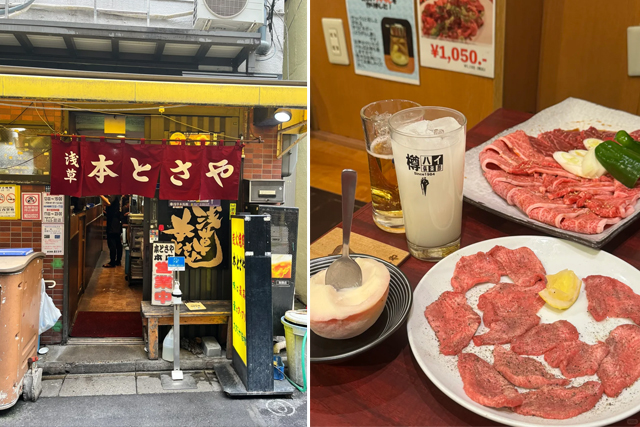
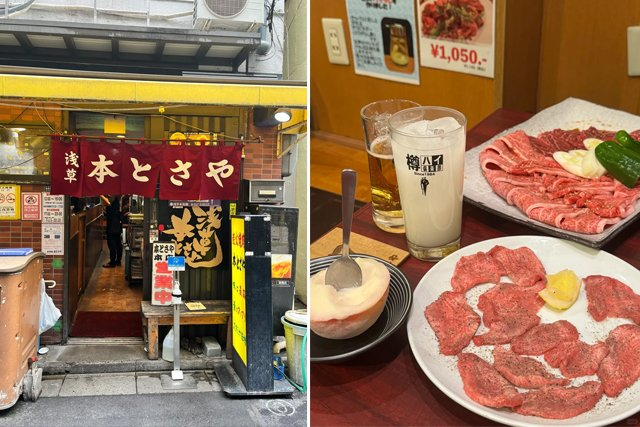
perf: compress images + fix LCP 22.6s
- logo.png: 930KB -> 27KB (97% reduction, resized 2048x2048 -> 200x200)
- Batch compress 18 PNG photos -> JPEG (quality=88)
- Resize all content images max 1200px width
- Update 8 code references from .png to .jpg
- Total image payload: ~11.6MB -> ~8.3MB (29% reduction)
- Fixes CF Web Analytics LCP P90: 22.6s -> expected <2.5s

diff --git a/src/content/blog/30-japanese-taboos-guide.md b/src/content/blog/30-japanese-taboos-guide.md
@@ -40,7 +40,7 @@ Turning down drinks from your boss is commonly viewed as disrespect in Japanese 
 
 Kimono dressing rule: right-over-left for living people. Left-over-right is only used for the deceased in funeral rituals. Wearing it wrong is considered extremely inauspicious — if you're renting a kimono, the staff will dress you correctly, but it's good to know.
 
-![Traditional Japanese kimono worn correctly with right-over-left fold in a serene temple garden](/images/taboos-kimono.png)
+![Traditional Japanese kimono worn correctly with right-over-left fold in a serene temple garden](/images/taboos-kimono.jpg)
 
 ### 4. Do Not Wear Your Bathroom Slippers Outside the Restroom
 
@@ -54,7 +54,7 @@ Japanese diners say _sumimasen_ (excuse me) to call for staff service. Loud shou
 
 The middle pathway of Shinto shrines is treated as the sacred road for deities. Tourists should walk along both-side lanes and avoid photographing the central aisle. This applies especially at major shrines like Fushimi Inari and Meiji Jingu.
 
-![Visitors walking respectfully along side paths at a Japanese shrine entrance with torii gate](/images/taboos-shrine.png)
+![Visitors walking respectfully along side paths at a Japanese shrine entrance with torii gate](/images/taboos-shrine.jpg)
 
 ### 7. Avoid Answering Phone Calls While Taking a Bath
 
@@ -80,7 +80,7 @@ This phrase carries the heavy implication of permanent separation. For daily far
 
 Tattoos were historically linked to gang culture in Japan. Most standard public onsen strictly reject guests with visible tattoos. However, the landscape is slowly changing.
 
-![Peaceful outdoor Japanese onsen with steam rising from a natural stone bath surrounded by autumn leaves](/images/taboos-onsen.png)
+![Peaceful outdoor Japanese onsen with steam rising from a natural stone bath surrounded by autumn leaves](/images/taboos-onsen.jpg)
 
 > **Travel Tip:** If you have tattoos and plan to experience Japanese hot springs, I have curated a list of tattoo-friendly onsen and private hot spring accommodations. You can easily [book private onsen rooms](#aff:klook_tattoo_onsen) without worrying about local restrictions.
 
@@ -116,7 +116,7 @@ Loud slurping tells chefs you love the noodle dish — it's a compliment, not ru
 
 Vertical chopsticks inside rice bowls replicate funeral offerings for the dead (_hotoke-bashi_), and it is an ominous gesture. Always rest chopsticks on the provided chopstick rest (_hashioki_) or horizontally across the bowl.
 
-![Chopsticks resting correctly on a hashioki beside a bowl of ramen in a warm Japanese restaurant setting](/images/taboos-dining.png)
+![Chopsticks resting correctly on a hashioki beside a bowl of ramen in a warm Japanese restaurant setting](/images/taboos-dining.jpg)
 
 ### 19. Do Not Transfer Food Directly Between Pairs of Chopsticks
 
@@ -136,7 +136,7 @@ Dirty outdoor shoes indoors are extremely impolite. This rule strictly applies t
 
 If your mobile rings on public transit, briefly explain you are aboard a train and hang up straight away. Keeping quiet on public transport is basic Japanese etiquette — most passengers switch their phones to silent mode (_manner mode_).
 
-![Clean, quiet Japanese train interior with passengers observing silent etiquette](/images/taboos-train.png)
+![Clean, quiet Japanese train interior with passengers observing silent etiquette](/images/taboos-train.jpg)
 
 > **Travel Tip:** To travel smoothly across Japan's vast public transport network, you can pre-purchase your [JR Pass](#aff:klook_jrpass) and [subway tickets](#aff:klook_subway) via my recommended booking links, saving time and avoiding on-site queue trouble.
 

diff --git a/src/content/blog/fukuoka-itoshima-day-trip-guide.md b/src/content/blog/fukuoka-itoshima-day-trip-guide.md
@@ -93,7 +93,7 @@ Best of all, there is almost no waiting time. I visited and practically had the 
 
 The restaurant is adjacent to quiet **Odahama Beach**, a local coastline free of commercial crowds. It is a favorite leisure spot for Fukuoka locals to unwind and enjoy peaceful seaside moments.
 
-![Odahama Beach with a uniquely shaped tree stretching toward the ocean, peaceful coastal scenery](/images/362.png)
+![Odahama Beach with a uniquely shaped tree stretching toward the ocean, peaceful coastal scenery](/images/362.jpg)
 
 A uniquely shaped tree stretching toward the ocean stands on the shore, creating incredibly dreamy scenery perfect for casual photos. Mostly visited by locals, this quiet beach is ideal for a slow stroll after meals.
 

diff --git a/src/content/blog/best-time-to-visit-japan.md b/src/content/blog/best-time-to-visit-japan.md
@@ -4,7 +4,7 @@ title: 'Best Time to Visit Japan 2026: Complete Month-by-Month Travel Guide'
 description: When should you visit Japan? This complete 2026 guide breaks down weather, crowds, prices, and festivals month by month so you can pick the perfect time for your trip.
 pubDate: 2026-08-06
 updatedDate: ''
-coverImage: /images/511.png
+coverImage: /images/511.jpg
 coverAlt: Cherry blossoms in full bloom along a river in Kyoto, Japan
 tags:
   - Japan
